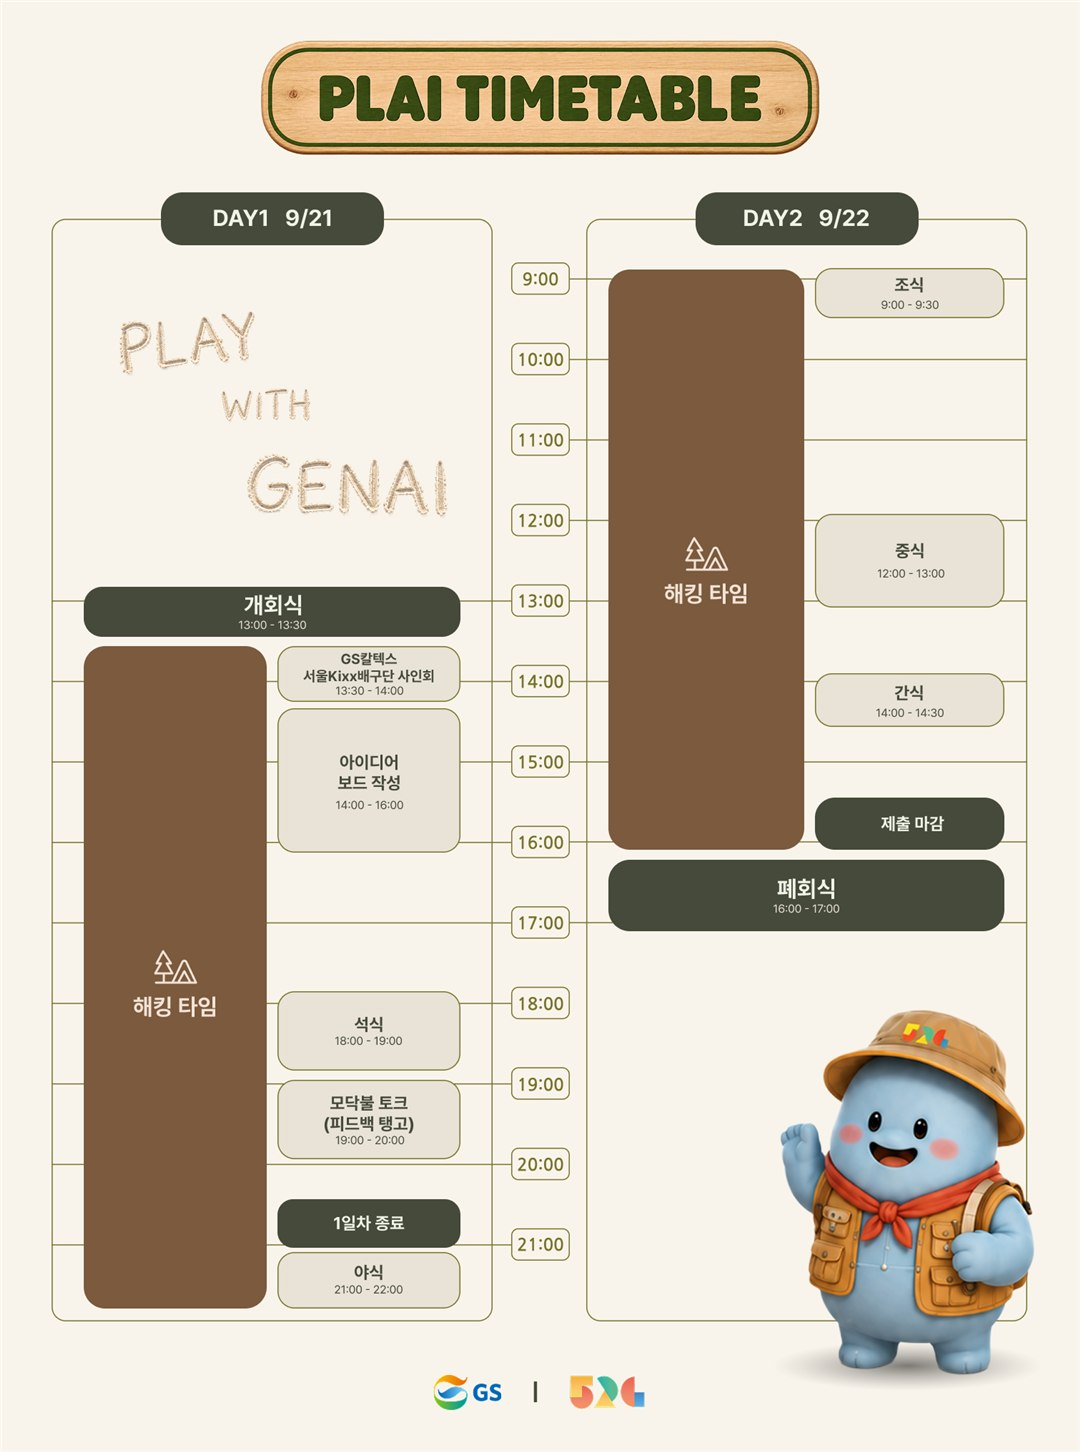
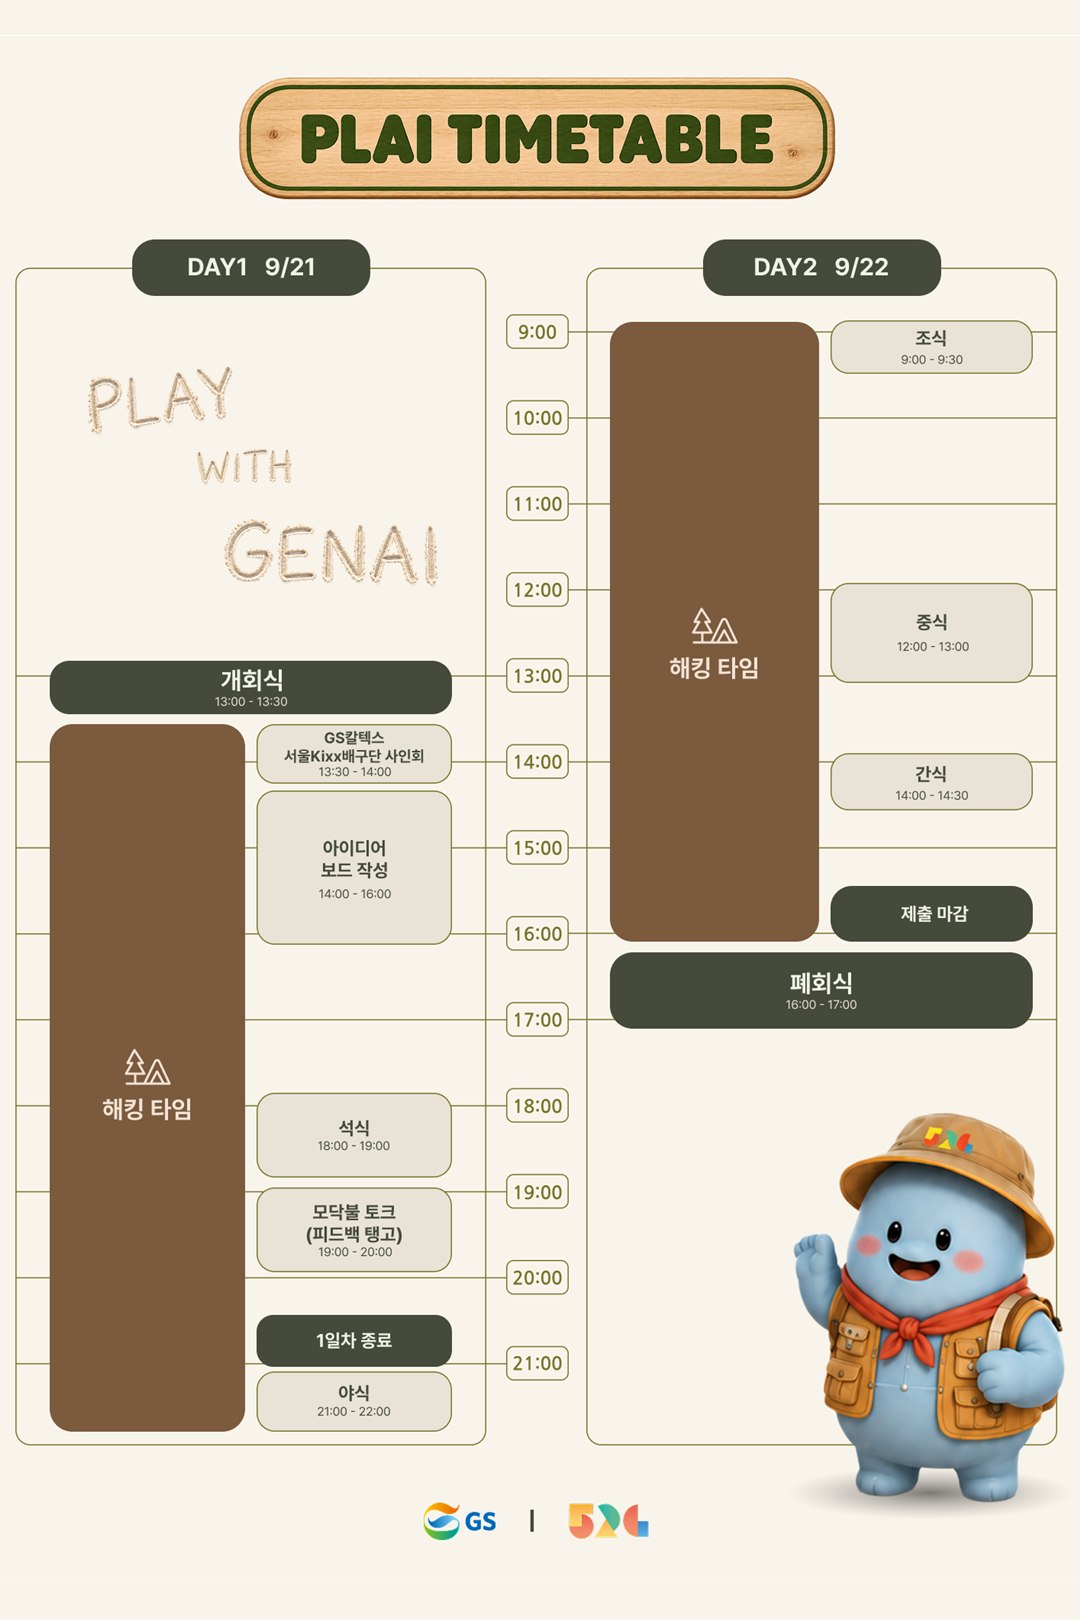
style(participant): 타임테이블 높이를 음식 여정과 동일하게 (2:3)
두 이미지의 원래 비율이 달라(0.744 vs 0.667) 같은 폭에서 타임테이블만
짧았습니다. 비율을 억지로 늘리면 표가 찌그러지므로 두 단계로 맞췄습니다:

1. 표 좌우의 넉넉한 여백(72/64px)을 20px만 남기고 덜어냈습니다. 카드
   테두리가 이미 여백 역할을 하고 있어, 그만큼 표를 크게 볼 수 있습니다.
   표가 화면 폭에서 차지하는 비중 91% → 97%.
2. 남은 차이는 위아래에 같은 배경색(크림 249,244,235)만 더해 채웠습니다.

결과 1080x1620 = 정확히 2:3. 음식 여정과 표시 크기가 321x481로 같고,
표 내용은 한 픽셀도 잘리거나 늘어나지 않았습니다.

diff --git a/admin-app/src/config.js b/admin-app/src/config.js
@@ -77,7 +77,7 @@ export const IMAGE_BOARDS = [
     label: '타임테이블',
     icon: '🗓',
     title: '해커톤 타임테이블',
-    src: './board/timetable.jpg?v=2',
+    src: './board/timetable.jpg?v=4',
     alt: 'PLAI 타임테이블 — DAY1 9/21, DAY2 9/22 시간별 일정',
     leagues: ['field'],
   },

diff --git a/participant-app/src/config.js b/participant-app/src/config.js
@@ -77,7 +77,7 @@ export const IMAGE_BOARDS = [
     label: '타임테이블',
     icon: '🗓',
     title: '해커톤 타임테이블',
-    src: './board/timetable.jpg?v=2',
+    src: './board/timetable.jpg?v=4',
     alt: 'PLAI 타임테이블 — DAY1 9/21, DAY2 9/22 시간별 일정',
     leagues: ['field'],
   },
